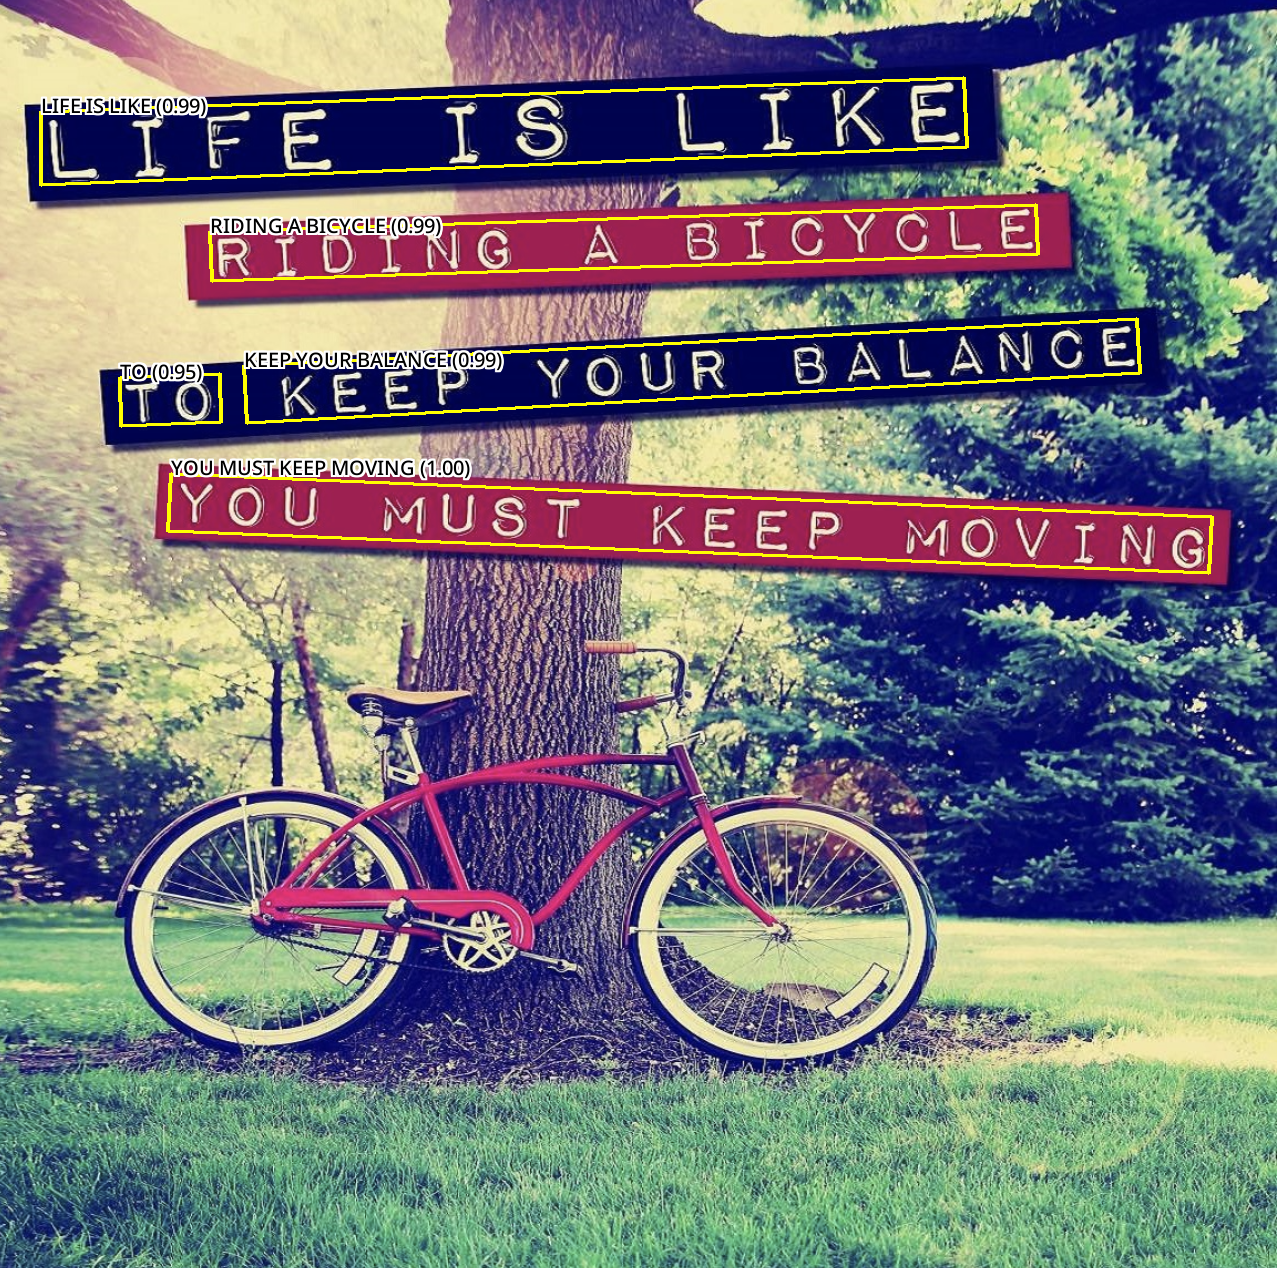
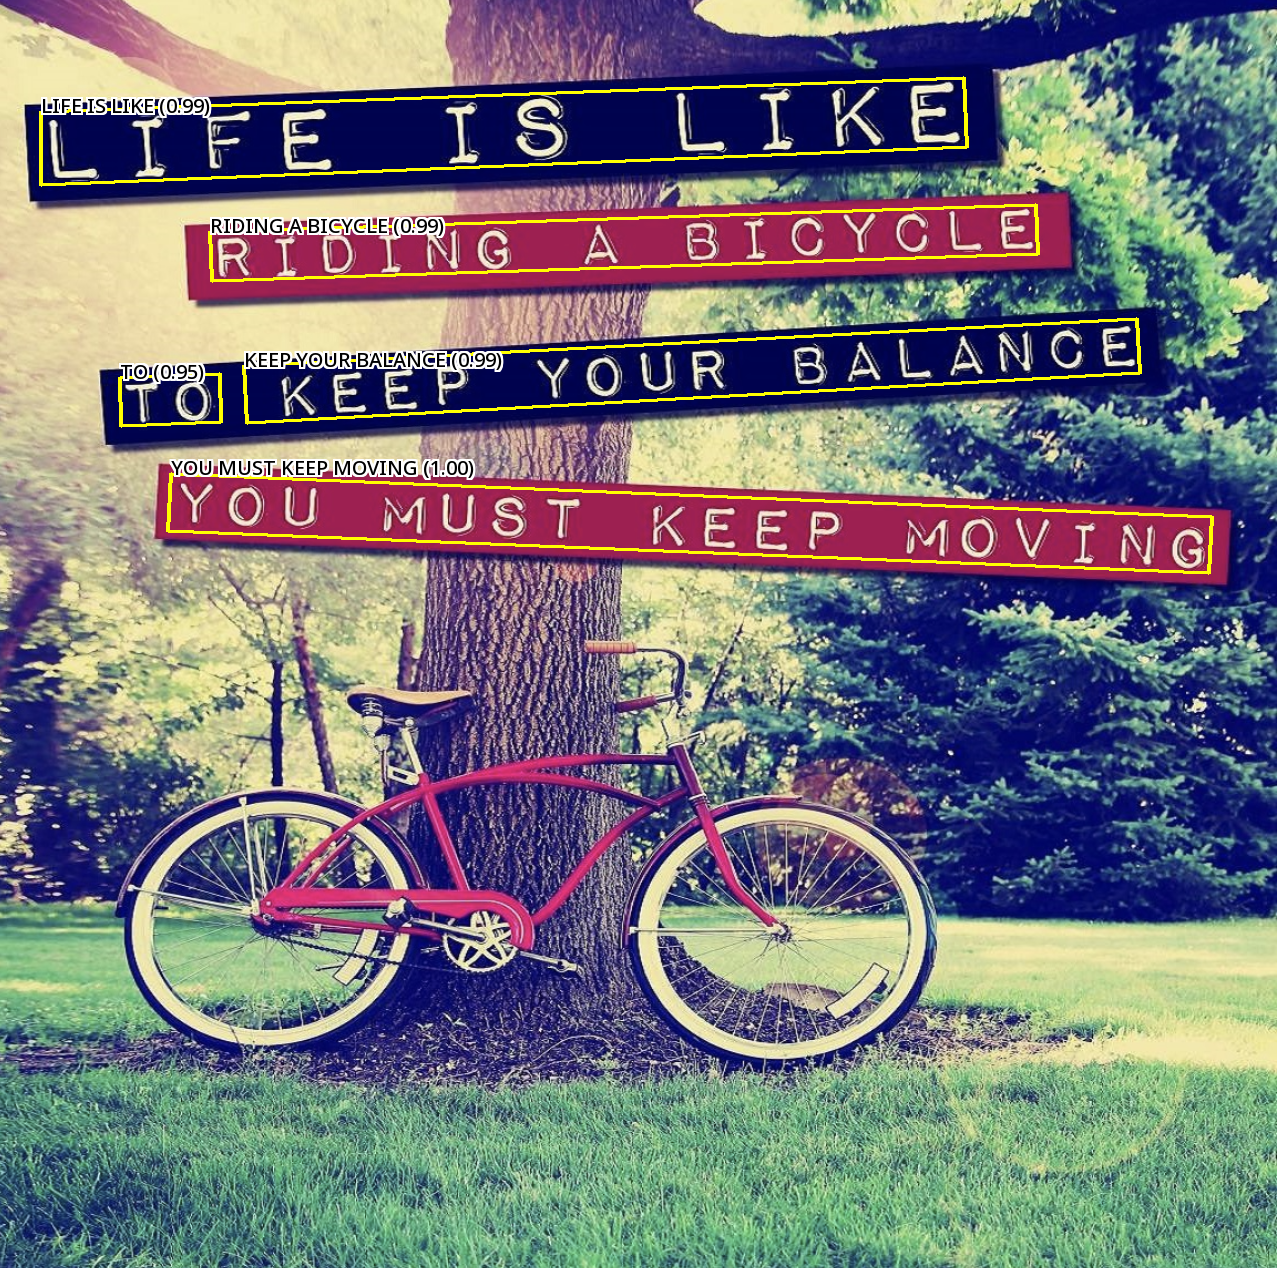
Fixed image analysis bugs, improved module version notebook, and removed unnecessary modules

diff --git a/src/translators/image_analyzer.py b/src/translators/image_analyzer.py
@@ -30,4 +30,4 @@ class ImageAnalyzer:
                 line_bounding_boxes = self.image_translator.extract_line_bounding_boxes(image_path)
                 if line_bounding_boxes:
                     save_bounding_boxes(image_path, line_bounding_boxes)
-                    plot_bounding_boxes(image_path, line_bounding_boxes, display=True)
+                    plot_bounding_boxes(image_path, line_bounding_boxes,language_code="en", display=True)
